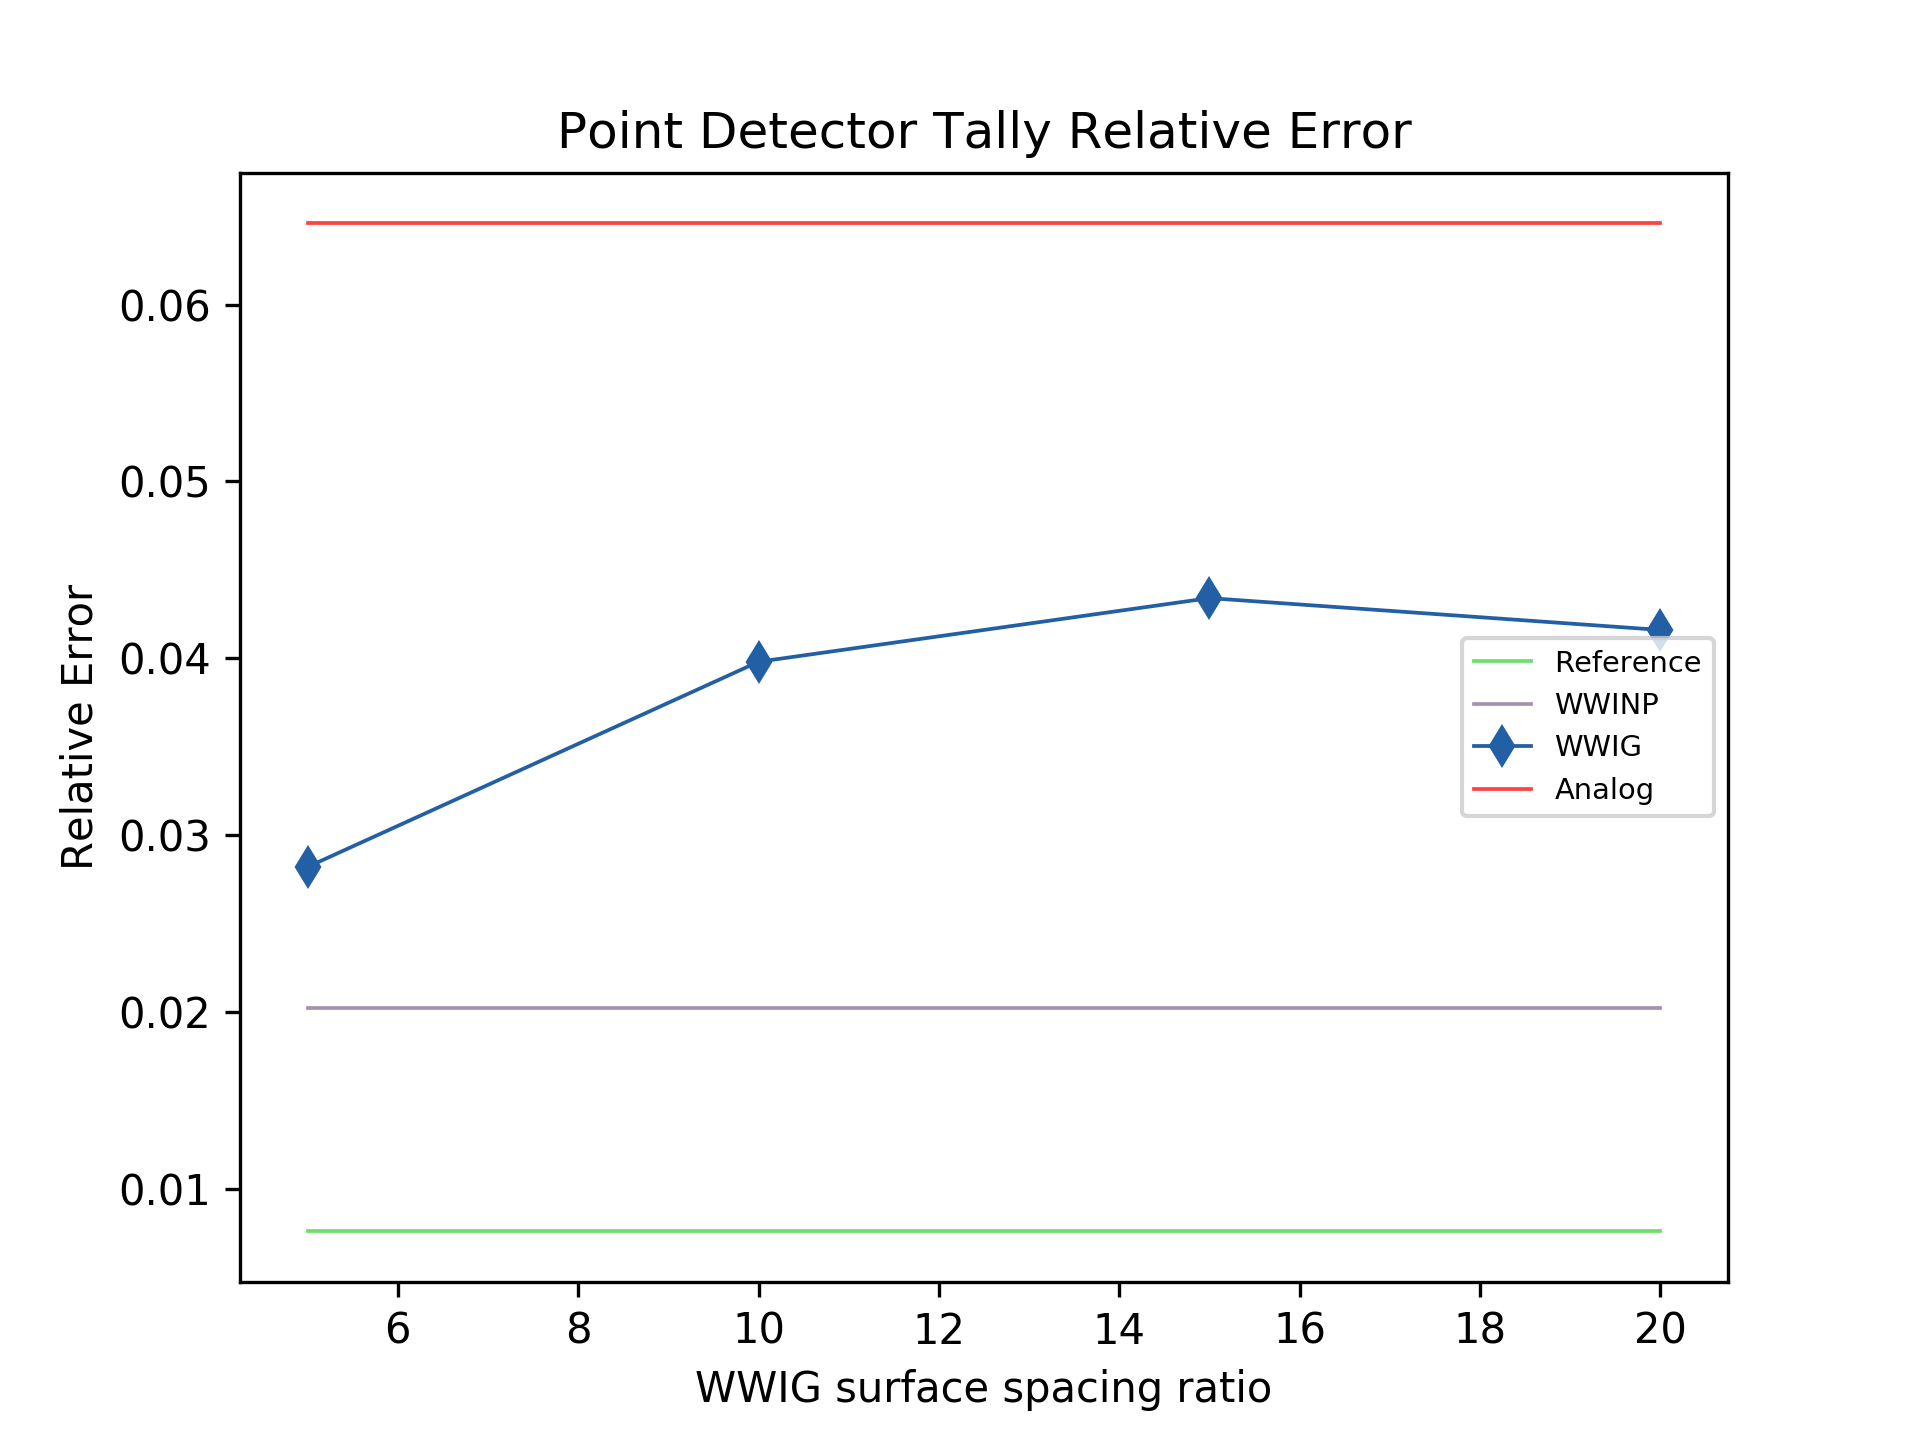
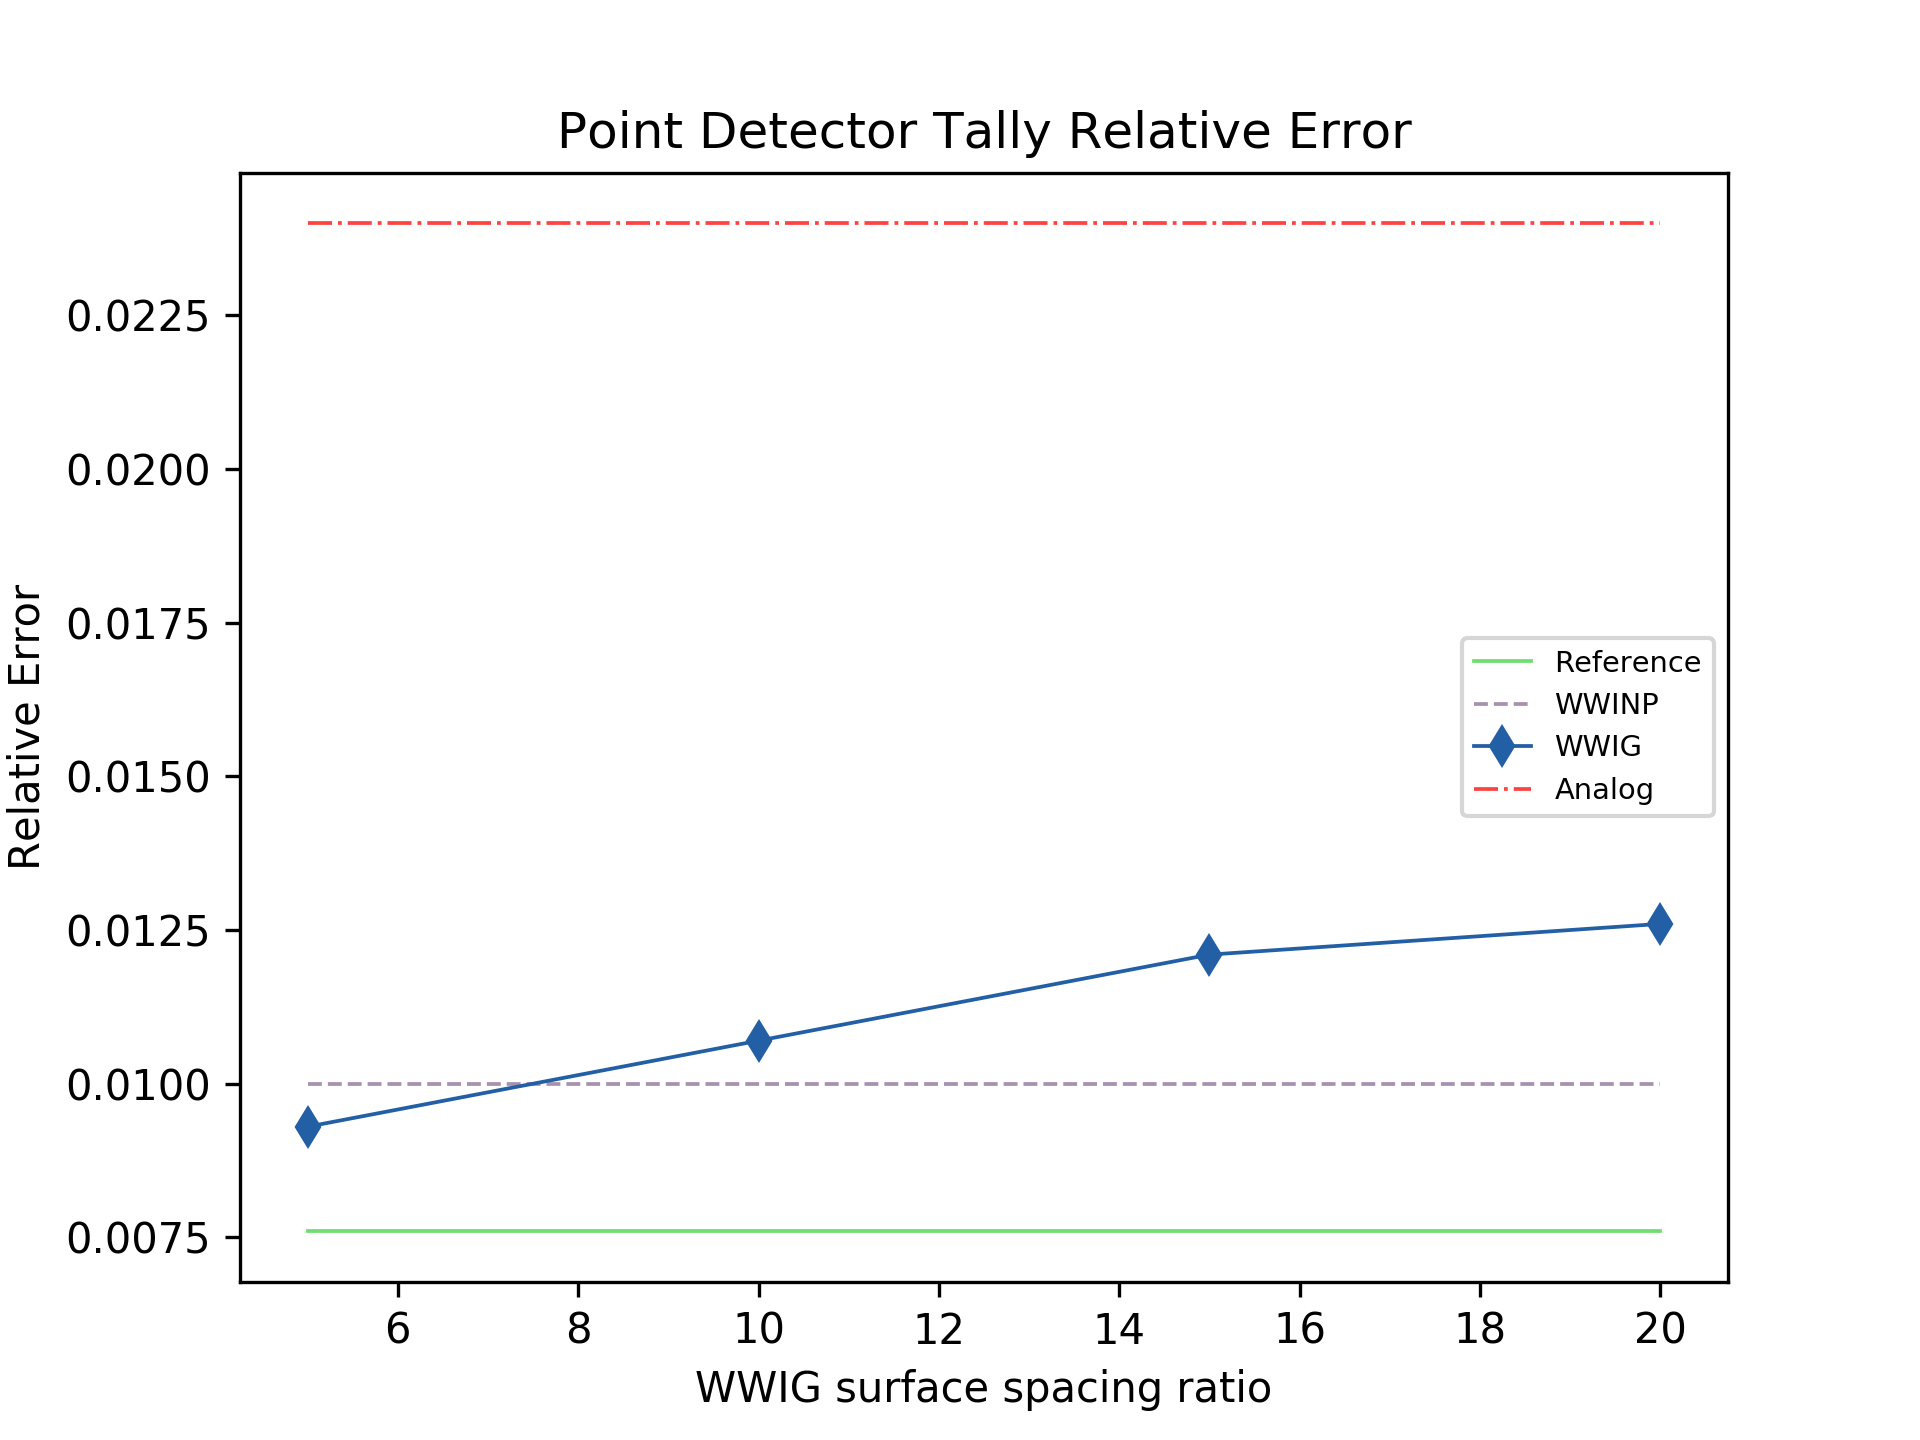
updated results for 1e6 particles

diff --git a/analyze/tally_15.py b/analyze/tally_15.py
@@ -22,14 +22,14 @@ def calc_ratios(m1, e1, m2, e2):
     return ratios, sigma_ratio
 
 
-# Data
+# Data - 1e6 particles
 ratios = np.array([5, 10, 15, 20])
-wwinp_res = np.full(len(ratios), 5.7436E-08)
-wwinp_err = np.full(len(ratios), 0.0202)
-wwig_res = np.array([5.7301E-08, 5.7690E-08, 5.7053E-08, 5.9092E-08])
-wwig_err = np.array([0.0282, 0.0398, 0.0434, 0.0416])
-analog_res = np.full(len(ratios), 5.5893E-08)
-analog_err = np.full(len(ratios), 0.0646)
+wwinp_res = np.full(len(ratios), 5.5896E-08)
+wwinp_err = np.full(len(ratios), 0.0100)
+wwig_res = np.array([5.6022E-08, 5.5119E-08, 5.5265E-08, 5.5659E-08])
+wwig_err = np.array([0.0093, 0.0107, 0.0121, 0.0126])
+analog_res = np.full(len(ratios), 5.5739E-08)
+analog_err = np.full(len(ratios), 0.0240)
 
 # reference solutions
 ref_res = np.full(len(ratios) + 1, 5.5894E-08)
@@ -57,10 +57,10 @@ plt.figure()
 plt.errorbar(ratios, wwig_res, yerr=(wwig_err * wwig_res), color=wwig_color,
              label='WWIG', ls='', marker='d', lw=.9, capsize=cs)
 plt.errorbar([ext_x], wwinp_res[0], yerr=(wwinp_err * wwinp_res)[0],
-             color=wwinp_color, label='WWINP', ls='', marker='d', lw=.9,
+             color=wwinp_color, label='WWINP', ls='', marker='x', lw=.9,
              capsize=cs)
 plt.errorbar([ext_x], analog_res[0], yerr=(analog_err * analog_res)[0],
-             color=analog_color, label='Analog', ls='', marker='d', lw=.9,
+             color=analog_color, label='Analog', ls='', marker='o', lw=.9,
              capsize=cs)
 plt.plot(ref_xs, ref_res, label='Reference', ls='-', marker='', lw=.9,
          color=ref_color)
@@ -119,12 +119,12 @@ plt.errorbar(ext_x, [1], yerr=(wpratio * wperr),
              label='WWINP/Ref $\pm 1\sigma$', ls='', marker='', lw=.9,
              capsize=cs, color=wwinp_color)
 plt.plot(ext_x, wpratio, label='WWINP/Ref', ls='',
-         marker='d', lw=.9, color=wwinp_color)
+         marker='x', lw=.9, color=wwinp_color)
 # analog/reference
 plt.errorbar(ext_x, [1], yerr=(aratio * aerr),
              label='Analog/Ref $\pm 1\sigma$', ls='', marker='', lw=.9,
              capsize=cs, color=analog_color)
-plt.plot(ext_x, aratio, label='Analog/Ref', ls='', marker='d', lw=.9,
+plt.plot(ext_x, aratio, label='Analog/Ref', ls='', marker='o', lw=.9,
          color=analog_color)
 
 plt.xlabel('WWIG surface spacing ratio')
@@ -138,11 +138,11 @@ plt.savefig('tally15_ratios.png', dpi=dpi)
 plt.figure()
 plt.plot(ref_xs[:len(ratios)], ref_err[:len(ratios)], label='Reference',
          ls='-', marker='', lw=.9, color=ref_color)
-plt.plot(ratios, wwinp_err, label='WWINP', ls='-', marker='', lw=.9,
+plt.plot(ratios, wwinp_err, label='WWINP', ls='--', marker='', lw=.9,
          color=wwinp_color)
 plt.plot(ratios, wwig_err, label='WWIG', ls='-', marker='d', lw=.9,
          color=wwig_color)
-plt.plot(ratios, analog_err, label='Analog', ls='-', marker='', lw=.9,
+plt.plot(ratios, analog_err, label='Analog', ls='-.', marker='', lw=.9,
          color=analog_color)
 plt.xlabel('WWIG surface spacing ratio')
 plt.ylabel('Relative Error')
